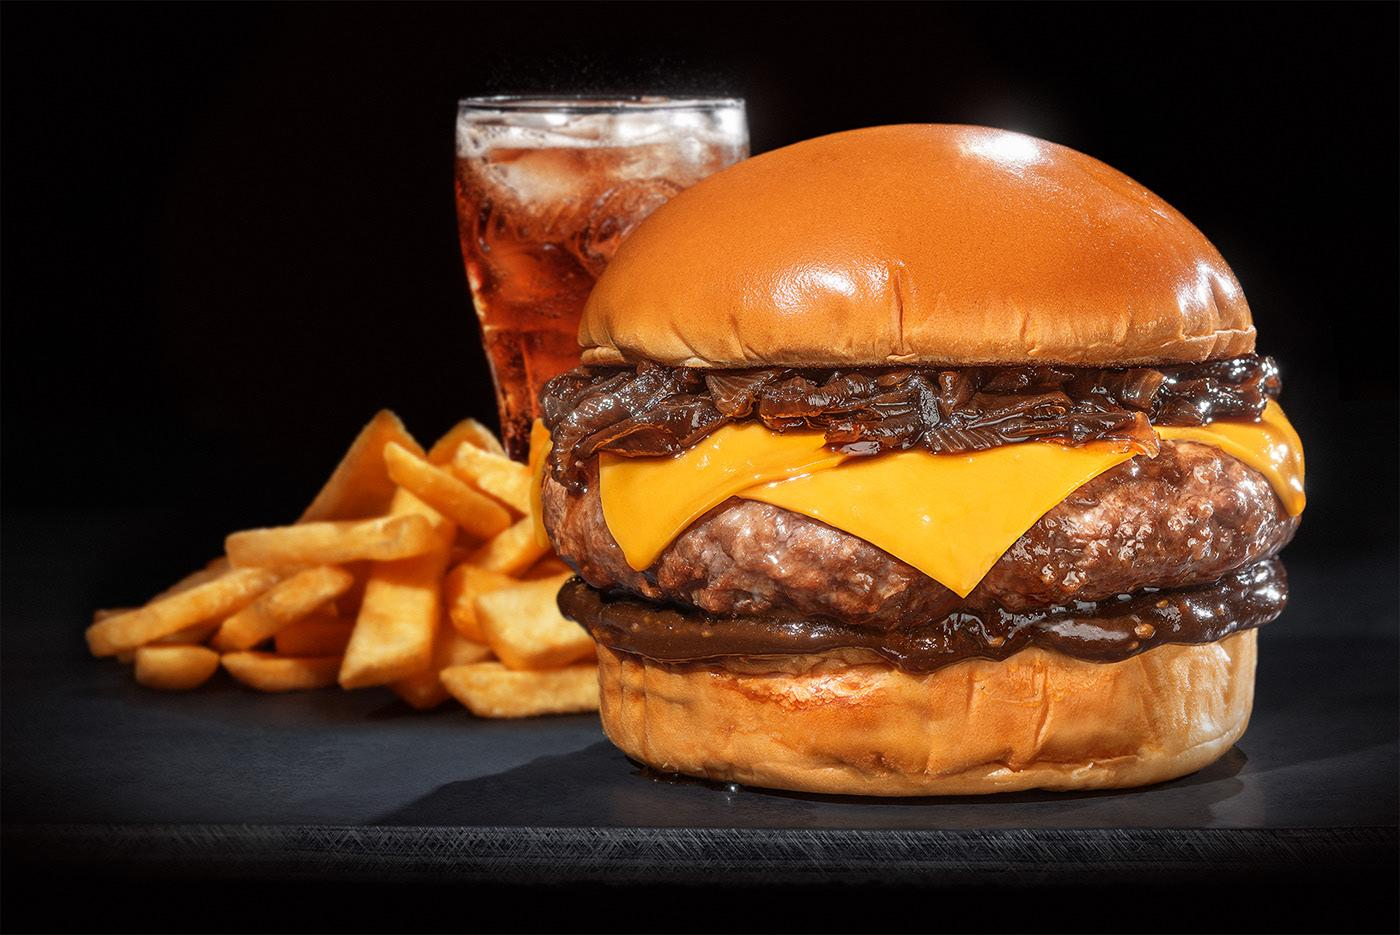
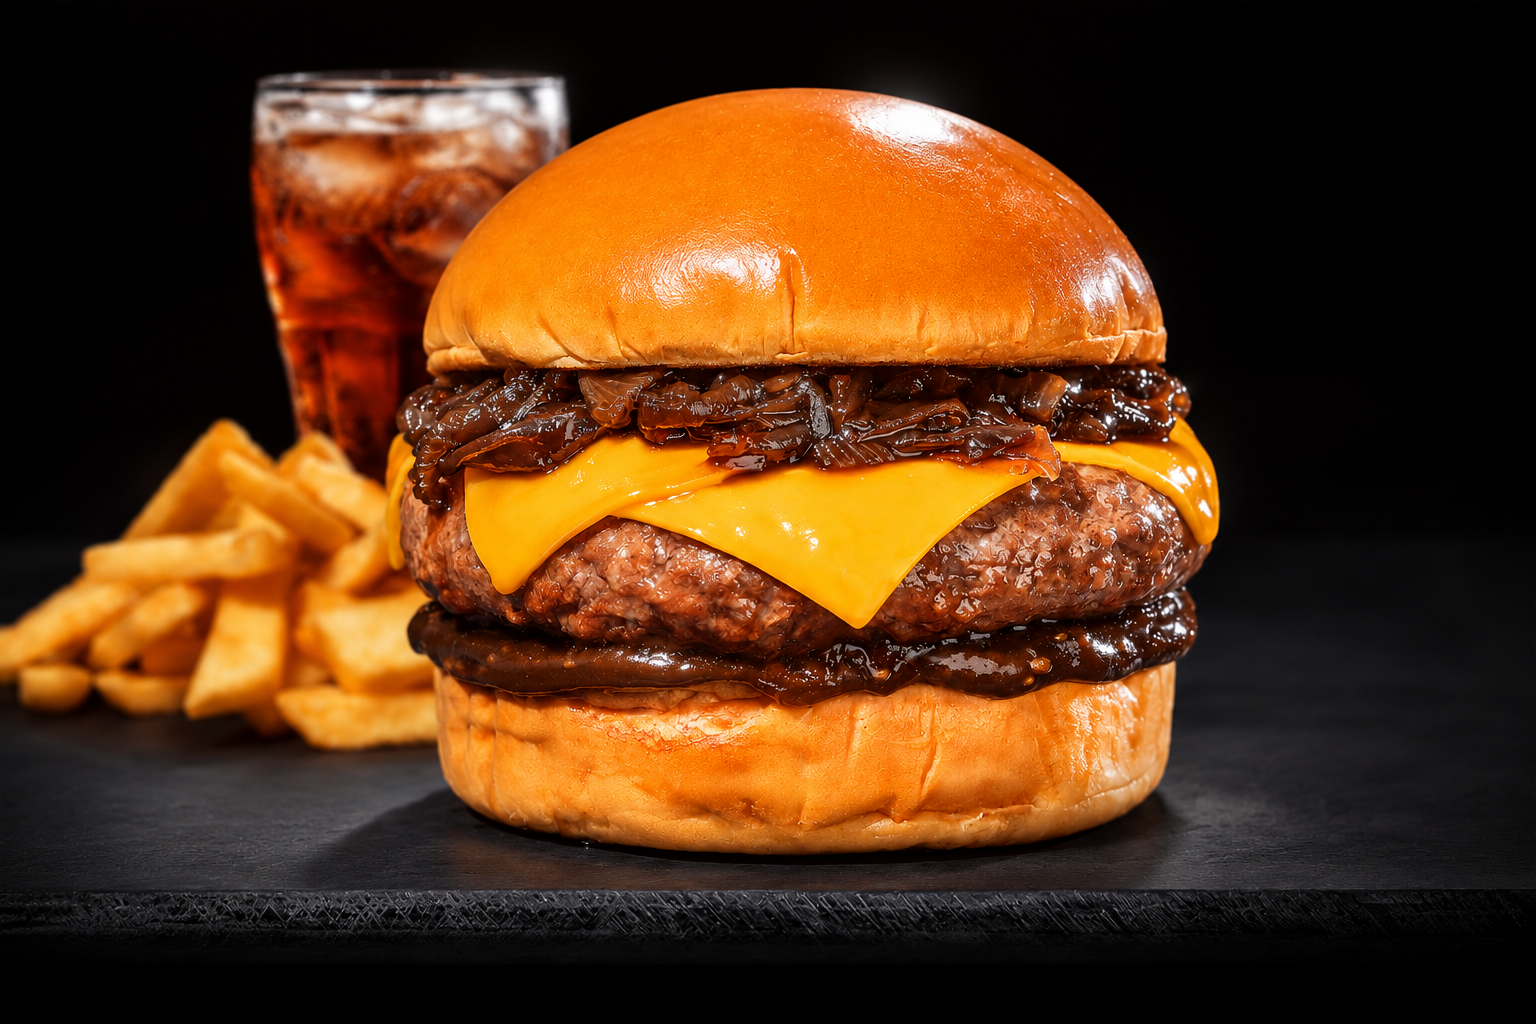
Atualiza cardapio completo e imagens da Orbita 088

diff --git a/index.html b/index.html
@@ -246,6 +246,239 @@
                     </button>
 
                 </article>
+                <article class="produto">
+
+                    <img src="images/aneis-de-saturno.jpg" alt="Hambúrguer Anéis de Saturno">
+
+                    <h3>
+                        
+                        Anéis de Saturno
+
+                    </h3>
+
+                    <p>
+
+                        Pão brioche, blend bovino, onion rings, queijo cheddar, bacon fatiado, molho barbecue, creme especial e fritas.
+
+                    </p>
+
+                    <p class="preco">
+
+                        R$ 22,00
+
+                    </p>
+
+                    <button class="adicionar-carrinho">
+
+                        Adicionar ao carrinho
+
+                    </button>
+
+                </article>
+                <article class="produto">
+
+                    <img src="images/lua-caramelizada.jpg" alt="Hambúrguer Lua Caramelizada">
+
+                    <h3>
+
+                        Lua Caramelizada
+
+                    </h3>
+
+                    <p>
+
+                        Pão australiano, blend bovino 130g, creme cheddar, bacon fatiado, cebola caramelizada, creme especial e fritas.
+
+                    </p>
+
+                    <p class="preco">
+
+                        R$ 22,00
+
+                    </p>
+
+                    <button class="adicionar-carrinho">
+
+                        Adicionar ao carrinho
+
+                    </button>
+
+                </article>
+                <article class="produto">
+
+                    <img src="images/abduzido.jpg" alt="Hambúrguer Abduzido">
+
+                    <h3>
+
+                        Abduzido
+
+                    </h3>
+
+                    <p>
+
+                        Pão brioche, blend bovino, queijo cheddar, picles, cebola picada, ketchup, mostarda, creme especial e fritas.
+
+                    </p>
+
+                    <p class="preco">
+
+                        R$ 22,00
+
+                    </p>
+
+                    <button class="adicionar-carrinho">
+
+                        Adicionar ao carrinho
+
+                    </button>
+
+                </article>
+                <article class="produto">
+
+                    <img src="images/gravidade-zero.jpg" alt="Hambúrguer Gravidade Zero" class="img-gravidade-zero"> 
+
+                    <h3>
+
+                        Gravidade Zero
+
+                    </h3>
+
+                    <p>
+
+                        Pão brioche, blend bovino, carne de sol desfiada e refogada na manteiga da terra, queijo coalho com mel, cream cheese, cebola caramelizada, creme especial e fritas.
+
+                    </p>
+
+                    <p class="preco">
+
+                        R$ 26,00
+
+                    </p>
+
+                    <button class="adicionar-carrinho">
+
+                        Adicionar ao carrinho
+
+                    </button>
+
+                </article>
+                <article class="produto">
+
+                    <img src="images/space.jpg" alt="Hambúrguer Space">
+
+                    <h3>
+
+                        Space
+
+                    </h3>
+
+                    <p>
+
+                        Pão brioche, dois smash, cream cheese, bacon empanado, queijo cheddar, geleia de pimenta, creme especial e fritas.
+
+                    </p>
+
+                    <p class="preco">
+
+                        R$ 26,00
+
+                    </p>
+
+                    <button class="adicionar-carrinho">
+
+                        Adicionar ao carrinho
+
+                    </button>
+
+                </article>
+                <article class="produto">
+
+                    <img src="images/galático.jpg" alt="Hambúrguer Galático">
+
+                    <h3>
+
+                        Galático
+
+                    </h3>
+
+                    <p>
+
+                        Pão brioche, 2 blends de 130g, cheddar empanado, 5 fatias de bacon, 3 fatias de mussarela, cebola caramelizada, picles, salada, creme especial e fritas.
+
+                    </p>
+
+                    <p class="preco">
+
+                        R$ 30,00
+
+                    </p>
+
+
+                    <button class="adicionar-carrinho">
+
+                        Adicionar ao carrinho
+
+                    </button>
+
+                </article>
+                <article class="produto">
+
+                    <img src="images/missao-crocante.jpg" alt="Hambúrguer Missão Crocante">
+
+                    <h3>
+
+                        Missão Crocante
+
+                    </h3>
+
+                    <p>
+
+                        Pão brioche, três smash bovinos, fatias de cheddar, bacon fatiado, creme cheddar, molho barbecue, creme especial e fritas.
+
+                    </p>
+
+                    <p class="preco">
+
+                        R$ 30,00
+
+                    </p>
+
+                    <button class="adicionar-carrinho">
+
+                        Adicionar ao carrinho
+
+                    </button>
+
+                </article>
+                <article class="produto">
+
+                    <img src="images/nebuloso.jpg" alt="Hambúrguer Nebuloso">
+
+                    <h3>
+
+                        Nebuloso
+
+                    </h3>
+
+                    <p>
+
+                        Pão brioche, blend bovino 170g, Doritos, creme cheddar, bacon em cubos, alface americana, geleia de morango, creme especial e fritas.
+
+                    </p>
+
+                    <p class="preco">
+
+                        R$ 26,00
+
+                    </p>
+
+                    <button class="adicionar-carrinho">
+
+                        Adicionar ao carrinho
+
+                    </button>
+
+                </article>
 
                 </div>
 

diff --git a/css/style.css b/css/style.css
@@ -6,6 +6,7 @@
     display: block;
     margin: 0 auto;
     max-width: 100%;
+    object-position: center;
 }
 
 .lista-produtos {
@@ -111,4 +112,10 @@ main > p {
 
 main {
     text-align: center;
+}
+
+.img-gravidade-zero {
+object-fit: cover;
+object-position: center;
+
 }
